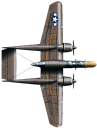
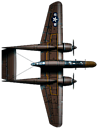
plane: 使用双缓冲解决闪烁问题

Changed region(s): [[0.0, 0.0, 1.0, 1.0]]

diff --git a/client/src/main/java/org/game/plane/run/DoubleBuff.java b/client/src/main/java/org/game/plane/run/DoubleBuff.java
@@ -1,106 +1,100 @@
 package org.game.plane.run;
 
-import javax.swing.*;
+import org.game.plane.ImageUtil;
+
+import javax.imageio.ImageIO;
 import java.awt.*;
-import java.awt.event.ActionListener;
+import java.awt.event.WindowAdapter;
+import java.awt.event.WindowEvent;
+import java.awt.image.BufferedImage;
+import java.io.File;
+import java.io.IOException;
 
-public class DoubleBuff extends JPanel {
-    Image doubleBuffer;
-    int clickCount;
-    int i = 1;
-    private static final Dimension pSize = new Dimension(400, 400);
+public class DoubleBuff extends Frame {
+    private static final int WIDTH = 800;//窗口宽
+    private static final int HEIGHT = 600;//窗口高
+    private int x = 50;//圆的横坐标
+    private int y = 50;//圆的纵坐标
+    private static int rotate = 0;//角度
 
-    public void paint(Graphics g) {
-        if (doubleBuffer == null) {
-            doubleBuffer = createImage(this.getWidth(), this.getHeight());
+    //缓存图片
+    private static BufferedImage plane = null;
+
+    static {
+        try {
+            plane = ImageIO.read(new File("D:\\DerbyCode\\games\\client\\src\\main\\resources\\images\\plane\\复古飞机.png"));
+        } catch (IOException e) {
+            e.printStackTrace();
         }
-        g.drawImage(doubleBuffer, 0, 0, null);
-        drawRect(g);
     }
 
-    public Dimension getPreferredSize() {
-        return pSize;
+    public void launchFrame() {
+        setSize(WIDTH, HEIGHT);
+        setTitle("DoubleBufferTest");
+
+        setLocationRelativeTo(null);
+
+        this.addWindowListener(new WindowAdapter() {
+            @Override
+            public void windowClosing(WindowEvent e) {
+                System.exit(0);
+            }
+        });
+
+        setResizable(false);//设置不可改变窗口大小
+        this.setBackground(Color.white);
+        setVisible(true);
+        while (true) {
+            repaint();//重画
+            try {
+                Thread.sleep(10);//每隔50ms重画一次
+            } catch (InterruptedException e) {
+                e.printStackTrace();
+            }
+        }
     }
 
-    public void changeInternalStatus() {
-        Graphics g2 = doubleBuffer.getGraphics();
+    /*
+     * 重写update方法，实现双缓冲，以消除闪烁
+     */
+    private static Image offScreenImage = null;//用于实现双缓冲
 
-        g2.drawLine(0, clickCount, doubleBuffer.getWidth(null), clickCount);
-        clickCount += 5;
-        g2.dispose();
-        repaint();
+    @Override
+    public void update(Graphics g) {
+        if (offScreenImage == null) {
+            offScreenImage = this.createImage(WIDTH, HEIGHT);//创建一张大小和窗口大小一样的虚拟图片
+        }
+        Graphics gOffScreen = offScreenImage.getGraphics();//获得画笔
+        //刷新背景，否则物体运动痕迹会保留
+        Color c = gOffScreen.getColor();
+        gOffScreen.setColor(Color.white);
+
+        //清屏
+        gOffScreen.fillRect(0, 0, WIDTH, HEIGHT);
+        drawRect(gOffScreen);
+
+        gOffScreen.setColor(c);
+        paint(gOffScreen);//画到虚拟图片上
+        g.drawImage(offScreenImage, 0, 0, null);//把图片画到屏幕上
     }
 
-    double angle = 0;
 
     private void drawRect(Graphics g) {
-        Run.Position position = getCirclePosition(0);
-        Run.Position position2 = getCirclePosition(1.0 / 3.0);
-        Run.Position position3 = getCirclePosition(2.0 / 3.0);
-        Run.Position position4 = getCirclePosition(3.0 / 3.0);
-        Run.Position position5 = getCirclePosition(4.0 / 3.0);
-        Run.Position position6 = getCirclePosition(5.0 / 3.0);
-        Run.Position position7 = getCirclePosition(6.0 / 3.0);
-
-        g.drawRect(200, 200, 20, 20);
-
-        g.drawRect(200 + position.x, 200 + position.y, 20, 20);
-        g.drawRect(200 + position2.x, 200 + position2.y, 20, 20);
-        g.drawRect(200 + position3.x, 200 + position3.y, 20, 20);
-        g.drawRect(200 + position4.x, 200 + position4.y, 20, 20);
-        g.drawRect(200 + position5.x, 200 + position5.y, 20, 20);
-        g.drawRect(200 + position6.x, 200 + position6.y, 20, 20);
-        g.drawRect(200 + position7.x, 200 + position7.y, 20, 20);
-
-        angle = angle < 2 ? (angle + 1.0 / 128.0) : 0.0;
+        BufferedImage image = ImageUtil.rotateImage(plane, rotate);
+        g.drawImage(image, x, y, null);
     }
 
-    public Run.Position getCirclePosition(double offset) {
-        //根据直径计算坐标(加上距圆心偏移量即为坐标)
-        double curAngle = offset + angle;
-
-        double length = 100.0;
-        int y = (int) (Math.sin(curAngle * Math.PI) * length);
-        int x = (int) (Math.cos(curAngle * Math.PI) * length);
-
-        if (i==1){
-            System.out.println(i);
-            i++;
-            new Thread(() -> {
-                while (true) {
-                    try {
-                        Thread.sleep(5);
-                    } catch (InterruptedException e) {
-                        e.printStackTrace();
-                    }
-                    repaint();
-                }
-            }).start();
-        }
-        //System.out.println("角度: " + angle + " X坐标: " + x + " Y坐标: " + y + " 计算和" + Math.sqrt(Math.pow(x, 2) + Math.pow(y, 2)));
-        return new Run.Position(x, y);
+    @Override
+    public void paint(Graphics g) {
+        Color c = g.getColor();//取出原前景色
+        g.setColor(Color.RED);//设置前景色
+        g.setColor(c);//恢复原前景色
+        y += 1;
     }
-
 
 
     public static void main(String[] args) {
-        final DoubleBuff p = new DoubleBuff();
-        JFrame f = new JFrame();
-        JMenuBar mb = new JMenuBar();
-        JMenu m = new JMenu("Test");
-        mb.add(m);
-        JMenuItem mi = new JMenuItem("Draw in off screen");
-        m.add(mi);
-        mi.addActionListener(new ActionListener() {
-            public void actionPerformed(java.awt.event.ActionEvent e) {
-                p.changeInternalStatus();
-            }
-        });
-        f.setJMenuBar(mb);
-        f.setContentPane(p);
-        f.pack();
-        f.setDefaultCloseOperation(JFrame.EXIT_ON_CLOSE);
-
-        f.show();
+        DoubleBuff tc = new DoubleBuff();
+        tc.launchFrame();
     }
 }

diff --git a/client/src/main/java/org/game/plane/run/FlyWithImage.java b/client/src/main/java/org/game/plane/run/FlyWithImage.java
@@ -2,6 +2,7 @@ package org.game.plane.run;
 
 import lombok.AllArgsConstructor;
 import lombok.Getter;
+import org.game.plane.ImageUtil;
 
 import javax.imageio.ImageIO;
 import javax.swing.*;
@@ -48,9 +49,16 @@ public class FlyWithImage {
         int y;
     }
 
-    static class MyPanel extends JFrame {
+    static class MyPanel extends Frame {
+        private static final int WIDTH = 800;//窗口宽
+        private static final int HEIGHT = 600;//窗口高
+
         public MyPanel() {
-            this.setBounds(0, 0, 400, 400); //设置窗体大小和位置
+
+        }
+
+        public void lanch() throws InterruptedException {
+            this.setBounds(0, 0, WIDTH, HEIGHT); //设置窗体大小和位置
             this.setVisible(true); //使用该属性才能显示窗体
             //实现程序运行关闭的功能
             addKeyListener(new KeyAdapter() {
@@ -95,14 +103,17 @@ public class FlyWithImage {
                     System.exit(-1);
                 }
             });
-        }
-
-        public void lanch() throws InterruptedException {
-            while (true) {
-                Thread.sleep(20);
-                handleKeyMap();
-                repaint();
-            }
+            new Thread(() -> {
+                while (true) {
+                    repaint();//重画
+                    handleKeyMap();
+                    try {
+                        Thread.sleep(10);//每隔50ms重画一次
+                    } catch (InterruptedException e) {
+                        e.printStackTrace();
+                    }
+                }
+            }).start();
         }
 
         private void handleKeyMap() {
@@ -131,46 +142,34 @@ public class FlyWithImage {
             x += x1;
         }
 
-        @Override
-        public void paint(Graphics g) {
-            //逐个读取链表中的节点数据，循环打印节点
-            super.paint(g);
-            drawRect(g);
-        }
+        private Image offScreenImage = null;//用于实现双缓冲
 
-        double angle = 0;
+        @Override
+        public void update(Graphics g) {
+            if (offScreenImage == null) {
+                offScreenImage = this.createImage(WIDTH, HEIGHT);//创建一张大小和窗口大小一样的虚拟图片
+            }
+            Graphics gOffScreen = offScreenImage.getGraphics();//获得画笔
+            //刷新背景，否则物体运动痕迹会保留
+            Color c = gOffScreen.getColor();
+            gOffScreen.setColor(Color.white);
+
+            gOffScreen.fillRect(0, 0, WIDTH, HEIGHT);
+            drawRect(gOffScreen);
+
+            gOffScreen.setColor(c);
+            paint(gOffScreen);//画到虚拟图片上
+            g.drawImage(offScreenImage, 0, 0, null);//把图片画到屏幕上
+        }
 
         private void drawRect(Graphics g) {
-            //g.fillArc(x, y, 50, 50, rotate, -60);
-            BufferedImage image = rotateImage(plane, rotate);
-
+            BufferedImage image = ImageUtil.rotateImage(plane, rotate);
             g.drawImage(image, x, y, null);
-            angle = angle < 2 ? (angle + 1.0 / 256.0) : 0.0;
         }
-    }
-
-    private static BufferedImage rotateImage( BufferedImage bufferedimage,
-                                             int degree) {
-        int w = bufferedimage.getWidth();// 得到图片宽度。
-        int h = bufferedimage.getHeight();// 得到图片高度。
-        w = Math.max(w, h);
-        h = w;//强制长宽一致
-
-        int type = bufferedimage.getColorModel().getTransparency();// 得到图片透明度。
-        BufferedImage img;// 空的图片。
-        Graphics2D graphics2d;// 空的画笔。
-        (graphics2d = (img = new BufferedImage(w, h, type))
-                .createGraphics()).setRenderingHint(
-                RenderingHints.KEY_INTERPOLATION,
-                RenderingHints.VALUE_INTERPOLATION_BILINEAR);
-
-        graphics2d.rotate(Math.toRadians(-degree), w / 2.0, h / 2.0);// 旋转，degree是整型，角度数，比如垂直90度。180°角度 = Π弧度
-        graphics2d.drawImage(bufferedimage, 0, 0, null);// 从bufferedimagecopy图片至img，0,0是img的坐标。
-        graphics2d.dispose();
-        return img;// 返回复制好的图片，原图片依然没有变，没有旋转，下次还可以使用。
     }
 
     public static void main(String[] args) throws InterruptedException {
+        //!!必须继承Frame！！！！
         MyPanel panel = new MyPanel();
         panel.lanch();
     }

diff --git a/client/src/main/java/org/game/plane/ImageUtil.java b/client/src/main/java/org/game/plane/ImageUtil.java
@@ -1,0 +1,27 @@
+package org.game.plane;
+
+import java.awt.*;
+import java.awt.image.BufferedImage;
+
+public class ImageUtil {
+    public static BufferedImage rotateImage(BufferedImage bufferedimage,
+                                             int degree) {
+        int w = bufferedimage.getWidth();// 得到图片宽度。
+        int h = bufferedimage.getHeight();// 得到图片高度。
+        w = Math.max(w, h);
+        h = w;//强制长宽一致
+
+        int type = bufferedimage.getColorModel().getTransparency();// 得到图片透明度。
+        BufferedImage img;// 空的图片。
+        Graphics2D graphics2d;// 空的画笔。
+        (graphics2d = (img = new BufferedImage(w, h, type))
+                .createGraphics()).setRenderingHint(
+                RenderingHints.KEY_INTERPOLATION,
+                RenderingHints.VALUE_INTERPOLATION_BILINEAR);
+
+        graphics2d.rotate(Math.toRadians(-degree), w / 2.0, h / 2.0);// 旋转，degree是整型，角度数，比如垂直90度。180°角度 = Π弧度
+        graphics2d.drawImage(bufferedimage, 0, 0, null);// 从bufferedimagecopy图片至img，0,0是img的坐标。
+        graphics2d.dispose();
+        return img;// 返回复制好的图片，原图片依然没有变，没有旋转，下次还可以使用。
+    }
+}
